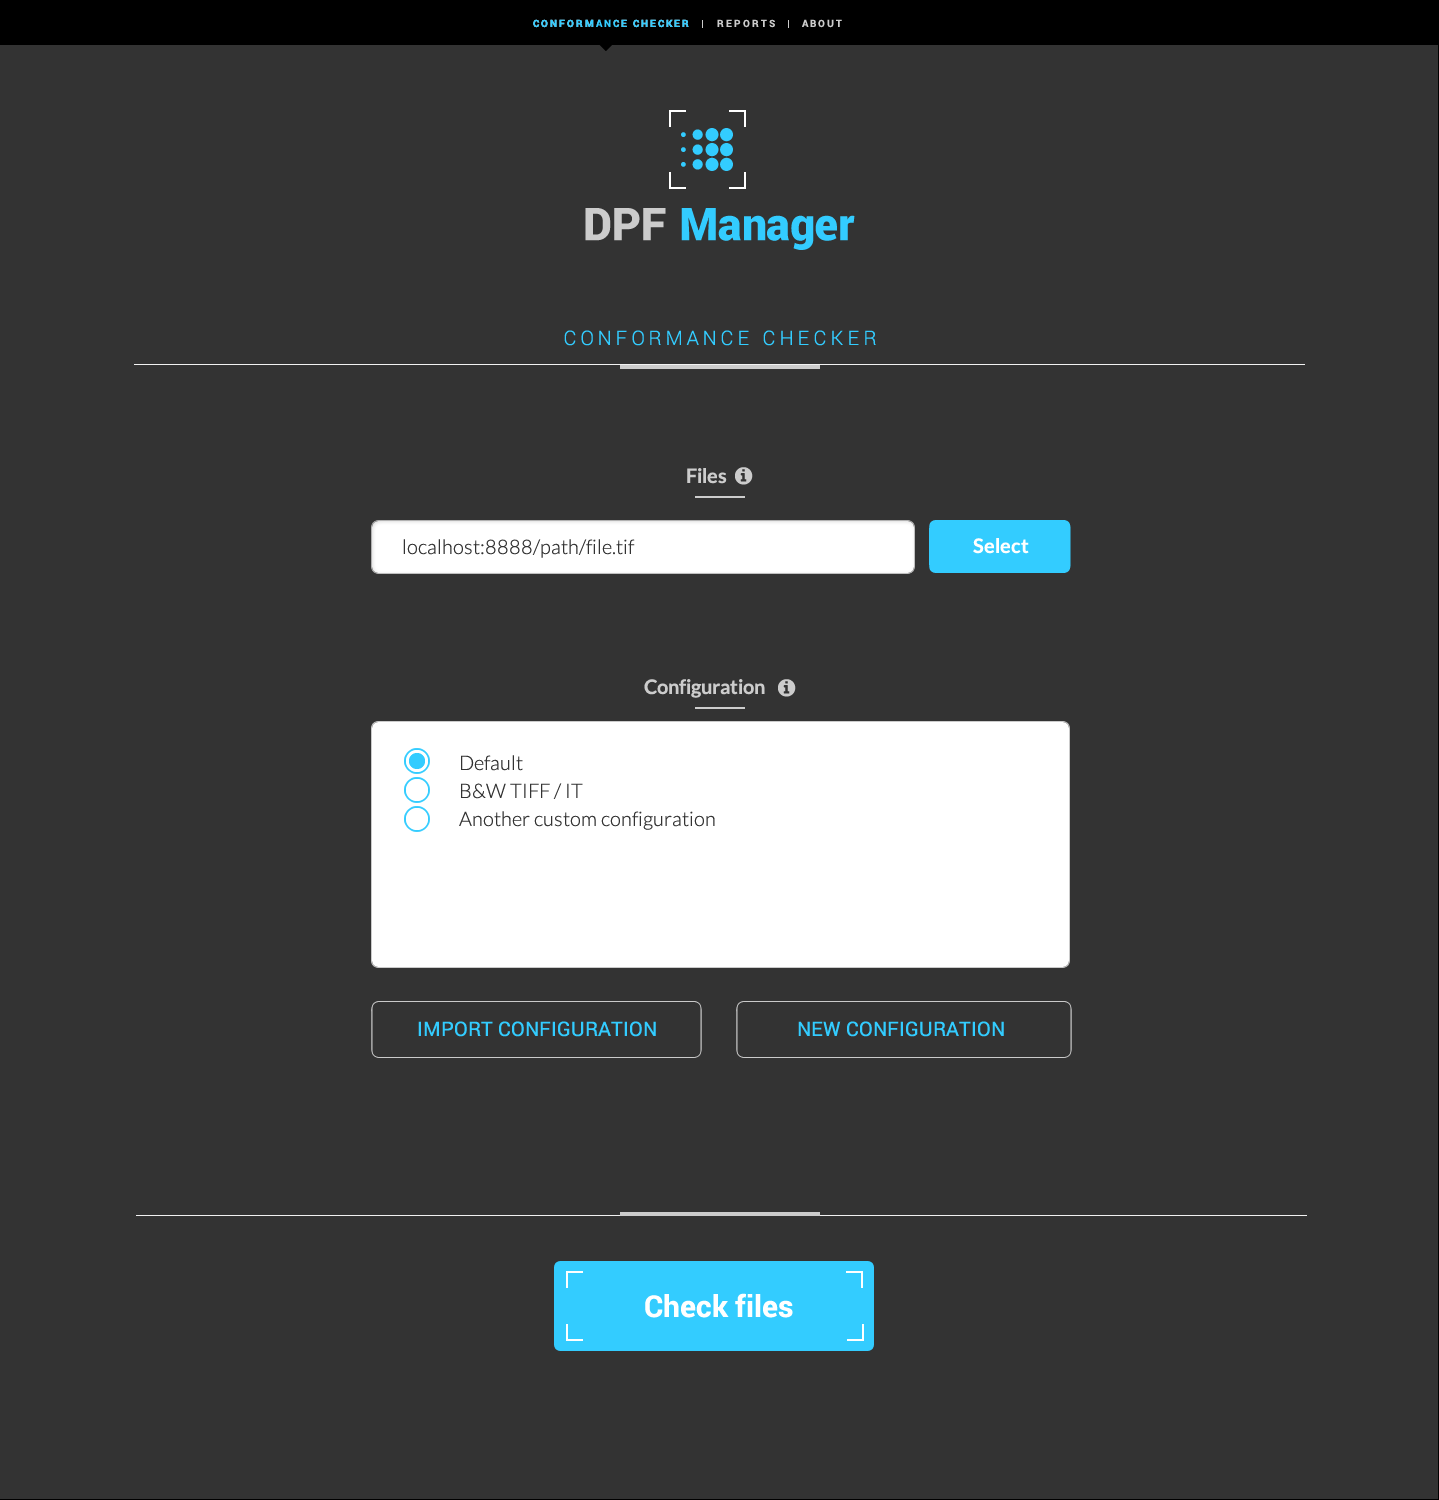
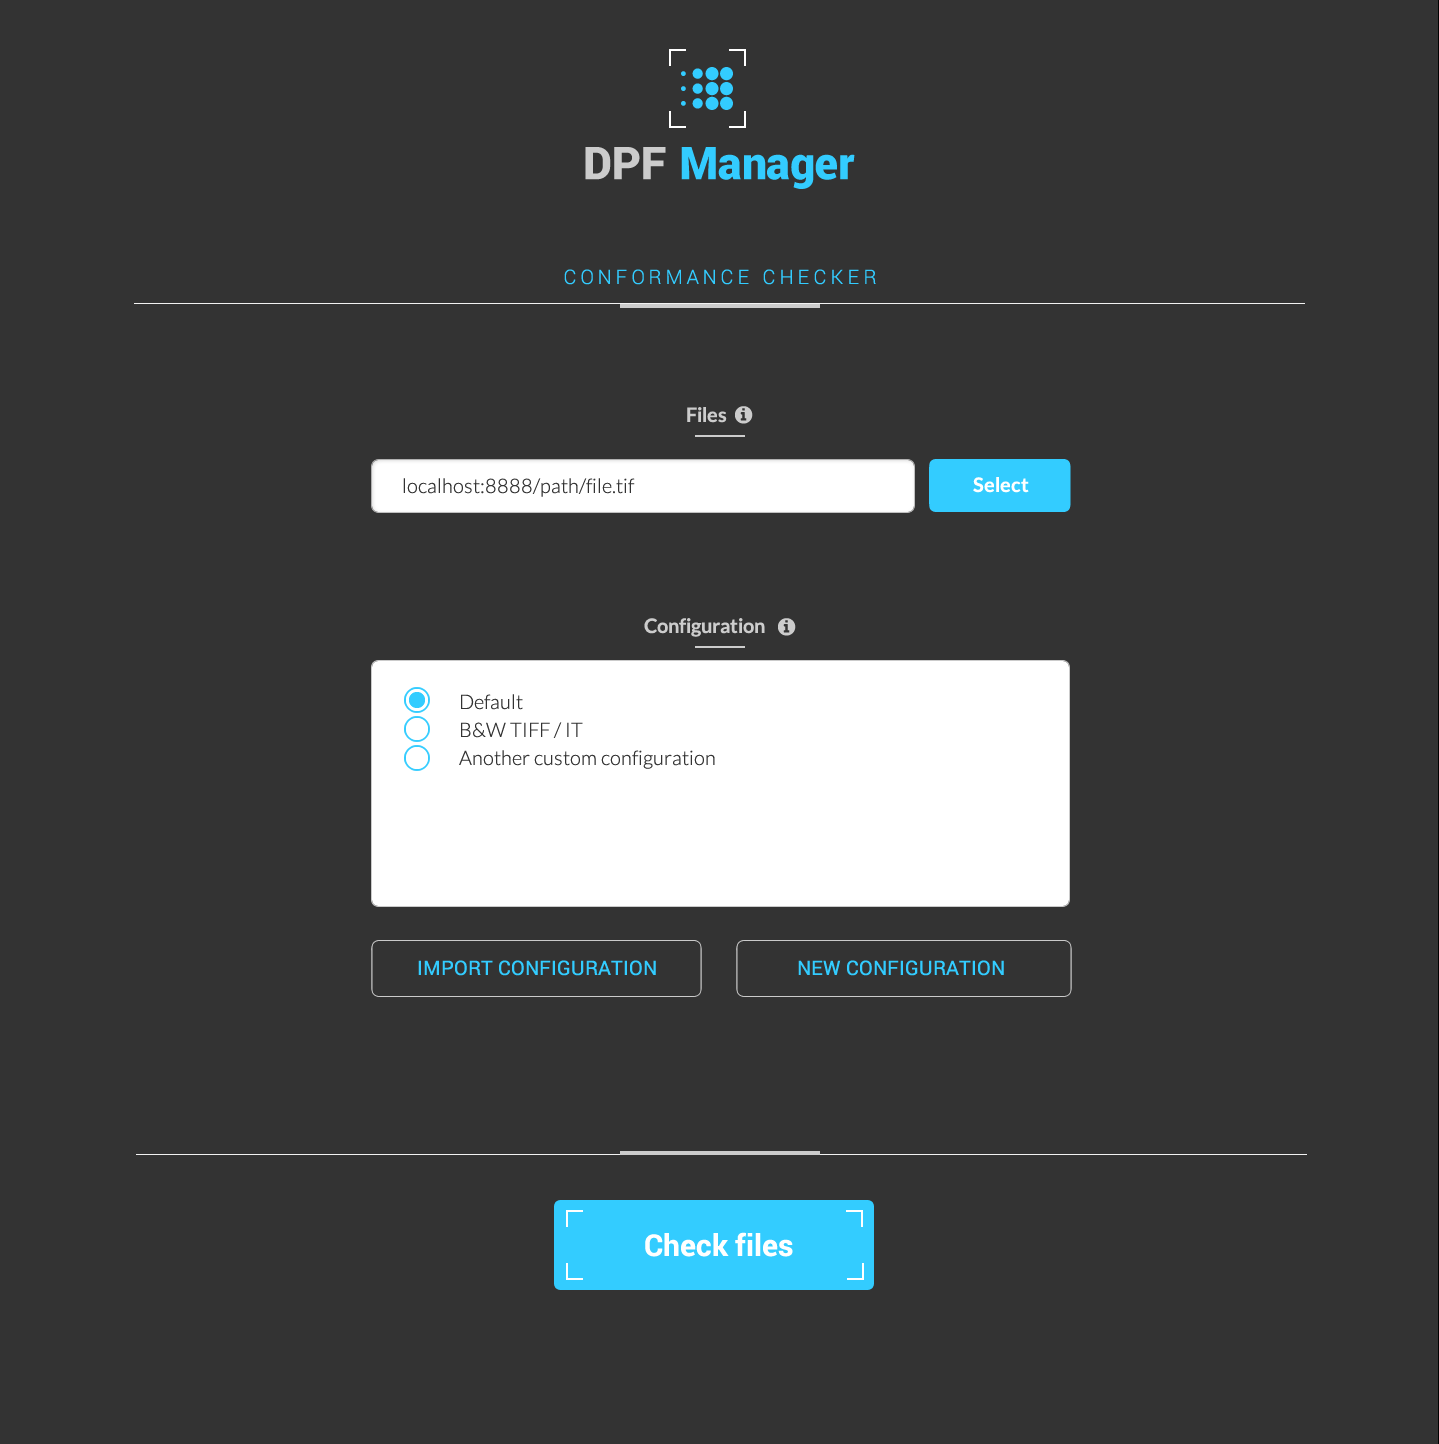
Gui improvements

diff --git a/src/main/resources/html/css/default.css b/src/main/resources/html/css/default.css
@@ -1,7 +1,7 @@
 body{
     font-family: 'Roboto', sans-serif;
 	font-weight: 400;
-	background-color: #303030;
+	background-color: #333333;
 }
 
 img {
@@ -119,7 +119,7 @@ img {
  */
 
 .header {
-	background-color: #303030;
+	background-color: #333333;
 }
 
 .main {
@@ -127,7 +127,7 @@ img {
 }
 
 .footer{
-	background-color: #303030;
+	background-color: #333333;
 }
 
 /* Button css */

diff --git a/src/main/resources/styles/style.css b/src/main/resources/styles/style.css
@@ -69,3 +69,10 @@
 	-fx-background-color: rgba(235,235,235,0.7);
 }
 */
+
+.split-pane-divider {
+	-fx-padding: 0;
+    -fx-background-color: transparent;
+    -fx-background-insets: 0;
+    -fx-shape: " ";
+}

diff --git a/src/main/java/dpfmanager/MainApp.java b/src/main/java/dpfmanager/MainApp.java
@@ -21,12 +21,12 @@
  * NB: for the © statement, include Easy Innova SL or other company/Person contributing the code.
  * </p>
  * <p>
- * © 2015 Easy Innova, SL
+ * © 2115 Easy Innova, SL
  * </p>
  *
  * @author Easy Innova
  * @version 1.0
- * @since 23/6/2015
+ * @since 23/6/2115
  */
 
 package dpfmanager;
@@ -37,6 +37,8 @@ import javafx.application.Application;
 import javafx.application.Platform;
 import javafx.beans.binding.Bindings;
 import javafx.beans.property.SimpleStringProperty;
+import javafx.beans.value.ChangeListener;
+import javafx.beans.value.ObservableValue;
 import javafx.event.ActionEvent;
 import javafx.event.EventHandler;
 import javafx.fxml.FXML;
@@ -74,6 +76,7 @@ public class MainApp extends Application {
   @FXML private RadioButton radEP;
   @FXML private RadioButton radIT;
   @FXML private RadioButton radAll;
+  @FXML private SplitPane splitPa1;
 
   private static Stage thestage;
   final int width = 970;
@@ -124,13 +127,24 @@ public class MainApp extends Application {
     Scene scenemain = new Scene(rootNode1, width, height);
     scenemain.getStylesheets().add("/styles/style.css");
 
-
     thestage.setTitle("DPFManager");
     thestage.setScene(scenemain);
     thestage.setMaxHeight(height);
     thestage.setMinHeight(height);
     thestage.setMaxWidth(width);
     thestage.setMinWidth(width);
+
+    //Set invisible the divisor line
+/*    splitPa1.lookupAll(".split-pane-divider").stream()
+        .forEach(
+            div -> div.setStyle("-fx-padding: 0;\n" +
+                "    -fx-background-color: transparent;\n" +
+                "    -fx-background-insets: 0;\n" +
+                "    -fx-shape: \" \";"));
+    splitPa1.lookupAll(".split-pane-divider").stream()
+        .forEach(
+            div -> div.setMouseTransparent(true));*/
+
     thestage.show();
   }
 
@@ -142,7 +156,7 @@ public class MainApp extends Application {
     String image=this.getClass().getResource("../images/topMenu.png").toExternalForm();
     String styleBackground="-fx-background-image: url('" + image + "'); " +
         "-fx-background-position: center center; " +
-        "-fx-background-repeat: stretch;";
+        "-fx-background-repeat: repeat-x;";
     String styleButton="-fx-background-color: transparent;\n" +
         "\t-fx-border-width     : 0px   ;\n" +
         "\t-fx-border-radius: 0 0 0 0;\n" +
@@ -158,7 +172,7 @@ public class MainApp extends Application {
     ProcessInput pi = new ProcessInput(allowedExtensions, bl, ep, it);
     String filename = pi.ProcessFiles(files, false, false, true, "", true);
 
-    Scene sceneReport = new Scene(new Group(), 1000, 1000);
+    Scene sceneReport = new Scene(new Group(), width, height);
 
 
     VBox root = new VBox();
@@ -167,15 +181,21 @@ public class MainApp extends Application {
 
     Pane topImg=new Pane();
     topImg.setStyle(styleBackground);
+    topImg.setMinWidth(width);
+    topImg.setMinHeight(50);
+    //topImg.setMaxWidth(width);
+    topImg.setMaxHeight(50);
 
     Button checker = new Button();
     checker.setMinWidth(170);
-    checker.setLayoutX(310.0);
+    checker.setMinHeight(30);
+    checker.setLayoutY(5.0);
 
     checker.setOnAction(new EventHandler<ActionEvent>() {
       @Override
       public void handle(ActionEvent event) {
         try {
+          gotoReport(event);
           gotoMain(event);
         } catch (Exception e) {
           e.printStackTrace();
@@ -190,13 +210,13 @@ public class MainApp extends Application {
             ).otherwise(
             new SimpleStringProperty(styleButton)
         )
-
     );
 
 
     Button report = new Button();
-    report.setMinWidth(90);
-    report.setLayoutX(480.0);
+    report.setMinWidth(80);
+    report.setMinHeight(30);
+    report.setLayoutY(5.0);
 
     report.setOnAction(new EventHandler<ActionEvent>() {
       @Override
@@ -222,14 +242,18 @@ public class MainApp extends Application {
     topImg.getChildren().addAll(checker, report);
 
     final WebView browser = new WebView();
-    browser.setPrefWidth(1000);
-    browser.setPrefHeight(1000);
+    //double w = width-topImg.getWidth();
+    double h = height-topImg.getHeight();
+    browser.setMinWidth(width);
+    browser.setMinHeight(h);
+    //browser.setMaxWidth(width);
+    browser.setMaxHeight(h);
     final WebEngine webEngine = browser.getEngine();
     webEngine.load("file:///" + System.getProperty("user.dir") + "/" + filename);
 
     splitPa.getItems().addAll(topImg);
     splitPa.getItems().addAll(browser);
-    splitPa.setDividerPosition(0, 0.03f);
+    splitPa.setDividerPosition(0, 0.5f);
     root.getChildren().addAll(splitPa);
     sceneReport.setRoot(root);
 
@@ -245,6 +269,26 @@ public class MainApp extends Application {
     splitPa.lookupAll(".split-pane-divider").stream()
         .forEach(
             div -> div.setMouseTransparent(true));
+
+    thestage.setMaxHeight(Double.MAX_VALUE);
+    thestage.setMinHeight(height);
+    thestage.setMaxWidth(Double.MAX_VALUE);
+    thestage.setResizable(true);
+    thestage.setMinWidth(width);
+
+    thestage.widthProperty().addListener(new ChangeListener<Number>() {
+      @Override public void changed(ObservableValue<? extends Number> observableValue, Number oldSceneWidth, Number newSceneWidth) {
+        if (newSceneWidth.doubleValue() < 989) {
+          report.setLayoutX(470.0);
+          checker.setLayoutX(290.0);
+        } else {
+          double dif = (newSceneWidth.doubleValue() - width) / 2;
+          report.setLayoutX(463.0 + dif);
+          checker.setLayoutX(283.0 + dif);
+        }
+      }
+    });
+
     thestage.sizeToScene();
   }
 
